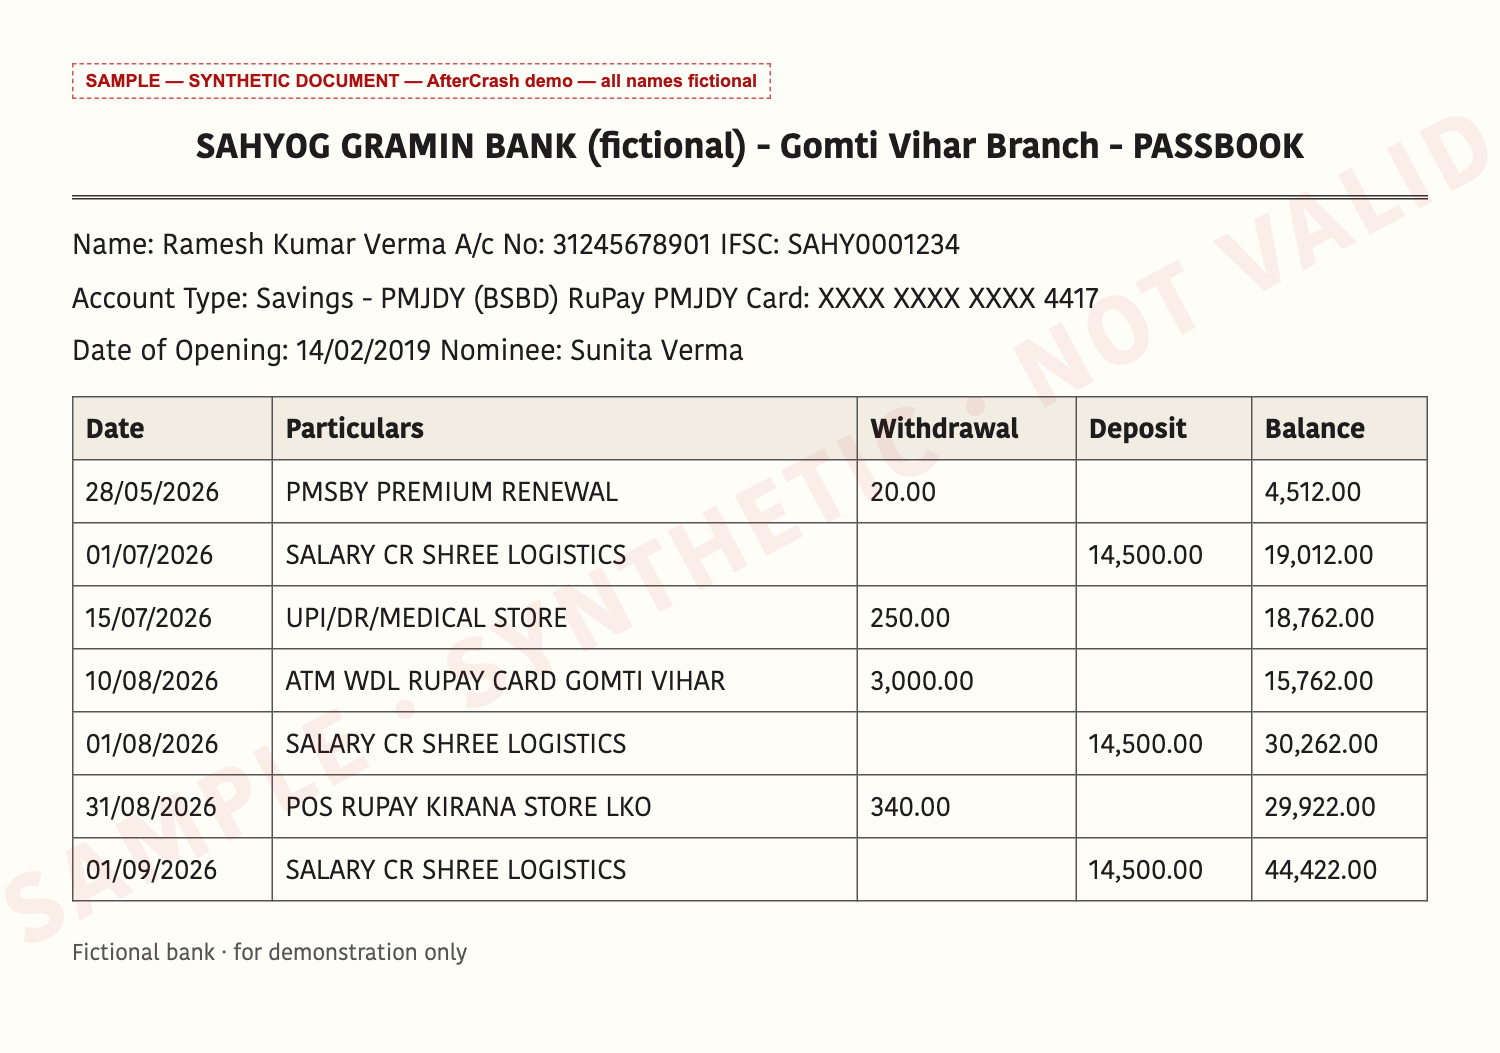
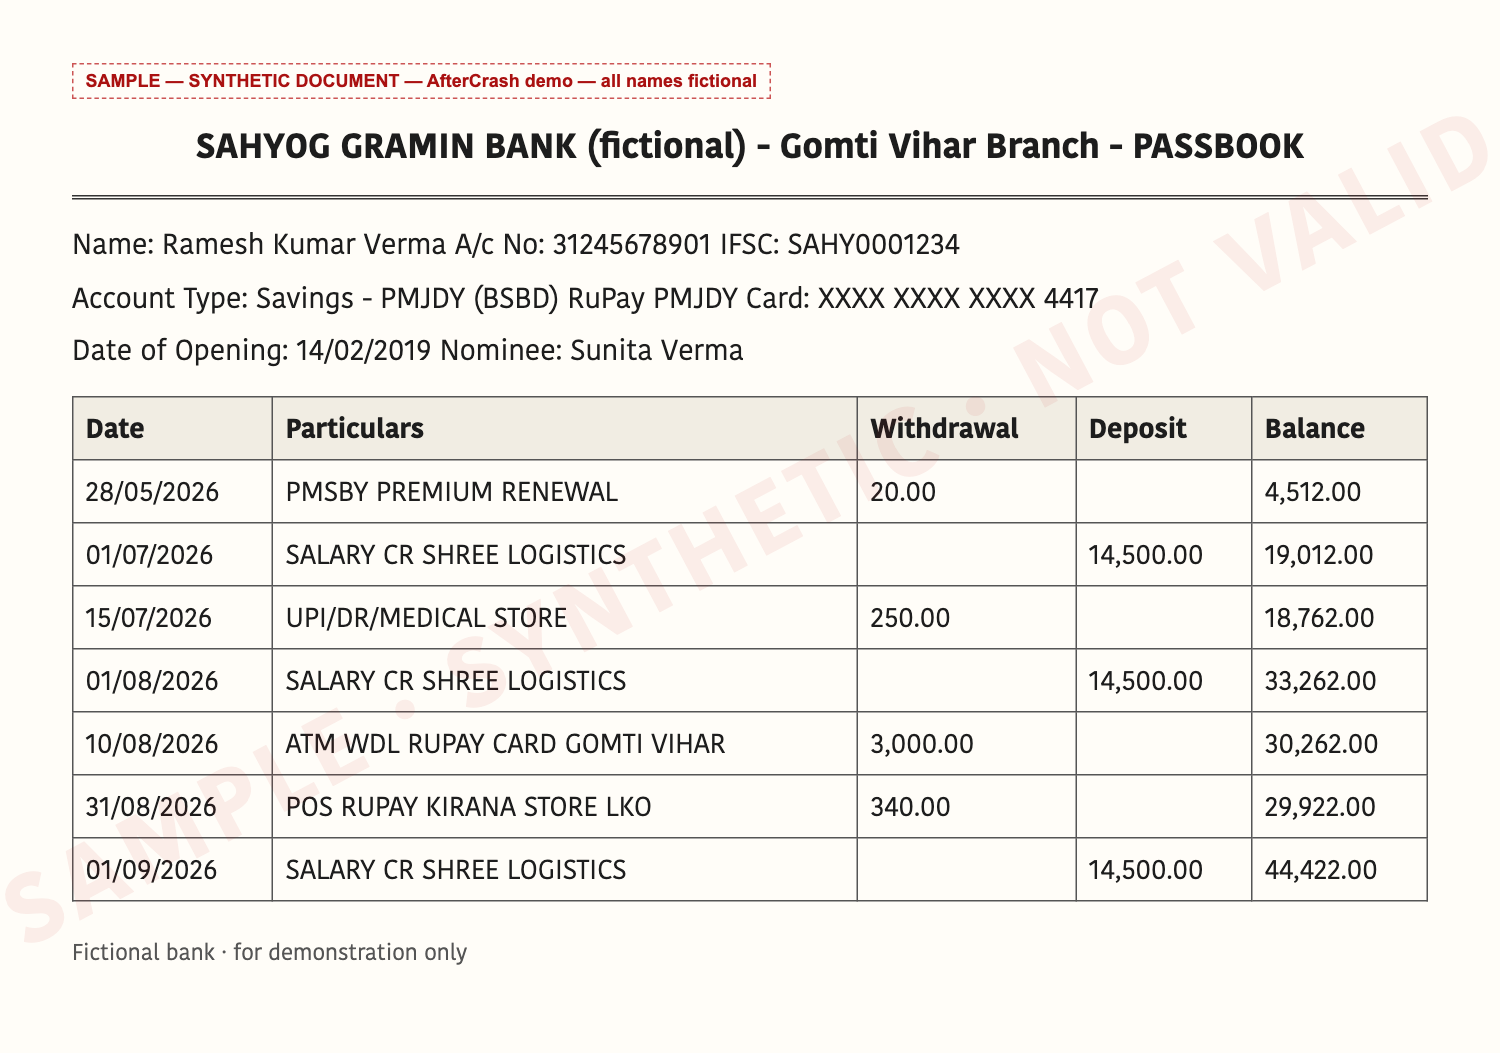
Fix payer name parsing; re-render samples

diff --git a/src/lib/docs/income.ts b/src/lib/docs/income.ts
@@ -27,7 +27,7 @@ export interface IncomeEvidence {
 
 function payerOf(text: string): string {
   const m = text.match(/(?:SALARY|SAL(?:\s*CR)?|NEFT\s*CR|IMPS\s*CR|UPI\/CR|PAYOUT)\s*[/|:-]?\s*([A-Z][A-Z .&]{2,40})/i);
-  return (m?.[1] ?? "").replace(/\s*\|.*$/, "").replace(/\s+/g, " ").trim() || "—";
+  return (m?.[1] ?? "").replace(/\s*\|.*$/, "").replace(/^(?:CR|DR)\s+/i, "").replace(/\s+/g, " ").trim() || "—";
 }
 
 export function extractIncome(lines: OcrLine[], before: string | null): IncomeEvidence {
